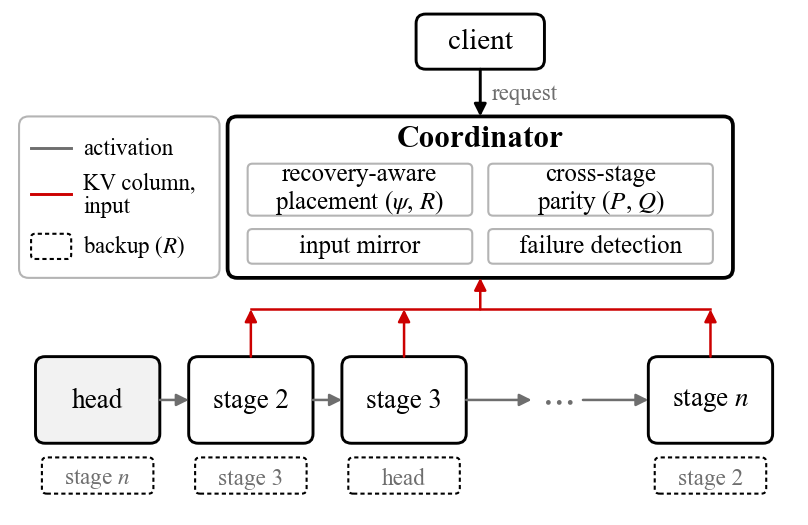
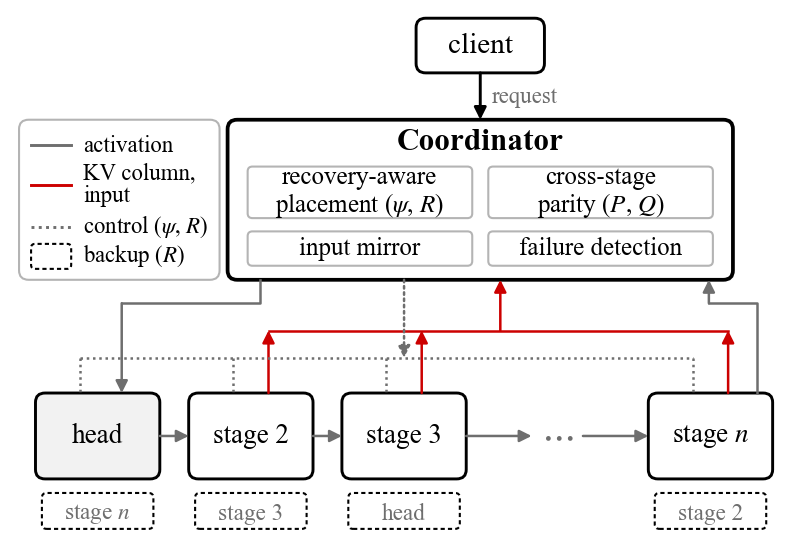
fix(figures): architecture — dotted control bus, request path in/out of the pipeline

diff --git a/paper/figures/paper/make_architecture.py b/paper/figures/paper/make_architecture.py
@@ -15,8 +15,8 @@ from _paper import EMPH, GRAY, INK, LIGHT, save  # noqa: E402
 STAGES = [("head", True, False, ["stage $n$"]), ("stage 2", False, False, ["stage 3"]),
           ("stage 3", False, False, ["head"]), ("", False, True, []), ("stage $n$", False, False, ["stage 2"])]
 
-fig, ax = plt.subplots(figsize=(3.45, 2.25))
-ax.set_xlim(0, 100); ax.set_ylim(9, 75); ax.axis("off")
+fig, ax = plt.subplots(figsize=(3.45, 2.4))
+ax.set_xlim(0, 100); ax.set_ylim(9, 80); ax.axis("off")
 
 def box(x0, y0, w, h, *, ls="-", ec=INK, fc="white", lw=0.7, r=1.2):
     ax.add_patch(FancyBboxPatch((x0, y0), w, h, boxstyle=f"round,pad=0,rounding_size={r}",
@@ -28,24 +28,25 @@ def arrow(p, q, *, color=INK, ls="-", lw=0.7, z=3):
                                 shrinkA=0, shrinkB=0, mutation_scale=6))
 
 # --- client
-box(51.5, 66.5, 16, 7); ax.text(59.5, 70, "client", ha="center", va="center", size=7)
-arrow((59.5, 66.5), (59.5, 60.5)); ax.text(61, 63.5, "request", size=5.5, color=GRAY, va="center")
+box(51.5, 71, 16, 7); ax.text(59.5, 74.5, "client", ha="center", va="center", size=7)
+arrow((59.5, 71), (59.5, 65)); ax.text(61, 68, "request", size=5.5, color=GRAY, va="center")
 
 # --- coordinator
-box(28, 40, 63, 20.5, lw=0.9)
-ax.text(59.5, 57.6, "Coordinator", ha="center", va="center", size=7.5, weight="bold")
-for x, y, t in [(44.5, 51.2, "recovery-aware\nplacement ($\\psi$, $R$)"), (74.5, 51.2, "cross-stage\nparity ($P$, $Q$)"),
-                (44.5, 44.0, "input mirror"), (74.5, 44.0, "failure detection")]:
+box(28, 44.5, 63, 20.5, lw=0.9)
+ax.text(59.5, 62.1, "Coordinator", ha="center", va="center", size=7.5, weight="bold")
+for x, y, t in [(44.5, 55.7, "recovery-aware\nplacement ($\\psi$, $R$)"), (74.5, 55.7, "cross-stage\nparity ($P$, $Q$)"),
+                (44.5, 48.5, "input mirror"), (74.5, 48.5, "failure detection")]:
     h = 6.6 if "\n" in t else 4.4
     box(x - 14, y - h / 2, 28, h, ec=LIGHT, lw=0.5, r=0.6)
     ax.text(x, y, t, ha="center", va="center", size=6, linespacing=1.05)
 
-# --- legend (top right)
+# --- legend (left)
 lx = 2
-box(lx, 40, 25, 20.5, ec=LIGHT, lw=0.5)
-ax.plot([lx + 1.5, lx + 6.5], [56.5, 56.5], color=GRAY, lw=0.7); ax.text(lx + 8, 56.5, "activation", size=5.5, va="center")
-ax.plot([lx + 1.5, lx + 6.5], [50.6, 50.6], color=EMPH, lw=0.7); ax.text(lx + 8, 50.6, "KV column,\ninput", size=5.5, va="center", linespacing=1.05)
-box(lx + 1.5, 42.4, 5, 3.2, ls=(0, (2, 1.5)), ec=INK, lw=0.5, r=0.5); ax.text(lx + 8, 44.0, "backup ($R$)", size=5.5, va="center")
+box(lx, 44.5, 25, 20.5, ec=LIGHT, lw=0.5)
+ax.plot([lx + 1.5, lx + 6.5], [61.7, 61.7], color=GRAY, lw=0.7); ax.text(lx + 8, 61.7, "activation", size=5.5, va="center")
+ax.plot([lx + 1.5, lx + 6.5], [56.7, 56.7], color=EMPH, lw=0.7); ax.text(lx + 8, 56.7, "KV column,\ninput", size=5.5, va="center", linespacing=1.05)
+ax.plot([lx + 1.5, lx + 6.5], [51.3, 51.3], color=GRAY, lw=0.7, linestyle=(0, (1, 1.5))); ax.text(lx + 8, 51.3, "control ($\\psi$, $R$)", size=5.5, va="center")
+box(lx + 1.5, 45.9, 5, 3.2, ls=(0, (2, 1.5)), ec=INK, lw=0.5, r=0.5); ax.text(lx + 8, 47.5, "backup ($R$)", size=5.5, va="center")
 
 # --- workers
 W, GAP = 15.5, 3.6
@@ -64,14 +65,24 @@ for i, (lab, head, dots, hosted) in enumerate(STAGES):
         for k, l in enumerate(hosted):
             ax.text(c, 17.2 - h + 1.9 + 3.4 * (len(hosted) - 1 - k), l, ha="center", va="center", size=5.6, color=GRAY)
     if not head:  # KV column + input to the coordinator
-        arrow((c, 30), (c, 36), color=EMPH, lw=0.6)
+        arrow((c + 2.2, 30), (c + 2.2, 38), color=EMPH, lw=0.6)
+    # control stub from the dotted bus
+    ax.plot([c - 2.2, c - 2.2], [34.5, 30], color=GRAY, lw=0.6, linestyle=(0, (1, 1.5)), zorder=3)
 # activation chain
 for i in range(4):
     a = centers[i] + (W / 2 if not STAGES[i][2] else 3.2)
     b = centers[i + 1] - (W / 2 if not STAGES[i + 1][2] else 3.2)
     arrow((a, 24.5), (b, 24.5), color=GRAY, lw=0.6)
-# bus into the coordinator
-ax.plot([centers[1], centers[-1]], [36, 36], color=EMPH, lw=0.6, zorder=3)
-arrow((59.5, 36), (59.5, 40), color=EMPH, lw=0.6)
+# KV bus into the coordinator
+ax.plot([centers[1] + 2.2, centers[-1] + 2.2], [38, 38], color=EMPH, lw=0.6, zorder=3)
+arrow((62, 38), (62, 44.5), color=EMPH, lw=0.6)
+# control bus (dotted) from the coordinator down over every worker
+ax.plot([centers[0] - 2.2, centers[-1] - 2.2], [34.5, 34.5], color=GRAY, lw=0.6, linestyle=(0, (1, 1.5)), zorder=3)
+arrow((50, 44.5), (50, 34.5), color=GRAY, lw=0.6, ls=(0, (1, 1.5)))
+# request path: coordinator -> head (outer left), stage n -> coordinator (outer right)
+ax.plot([32, 32, centers[0] + 3], [44.5, 41.5, 41.5], color=GRAY, lw=0.6, zorder=3)
+arrow((centers[0] + 3, 41.5), (centers[0] + 3, 30), color=GRAY, lw=0.6)
+ax.plot([centers[-1] + 5.8, centers[-1] + 5.8, 88], [30, 41.5, 41.5], color=GRAY, lw=0.6, zorder=3)
+arrow((88, 41.5), (88, 44.5), color=GRAY, lw=0.6)
 
 save(fig, "fig_architecture")
